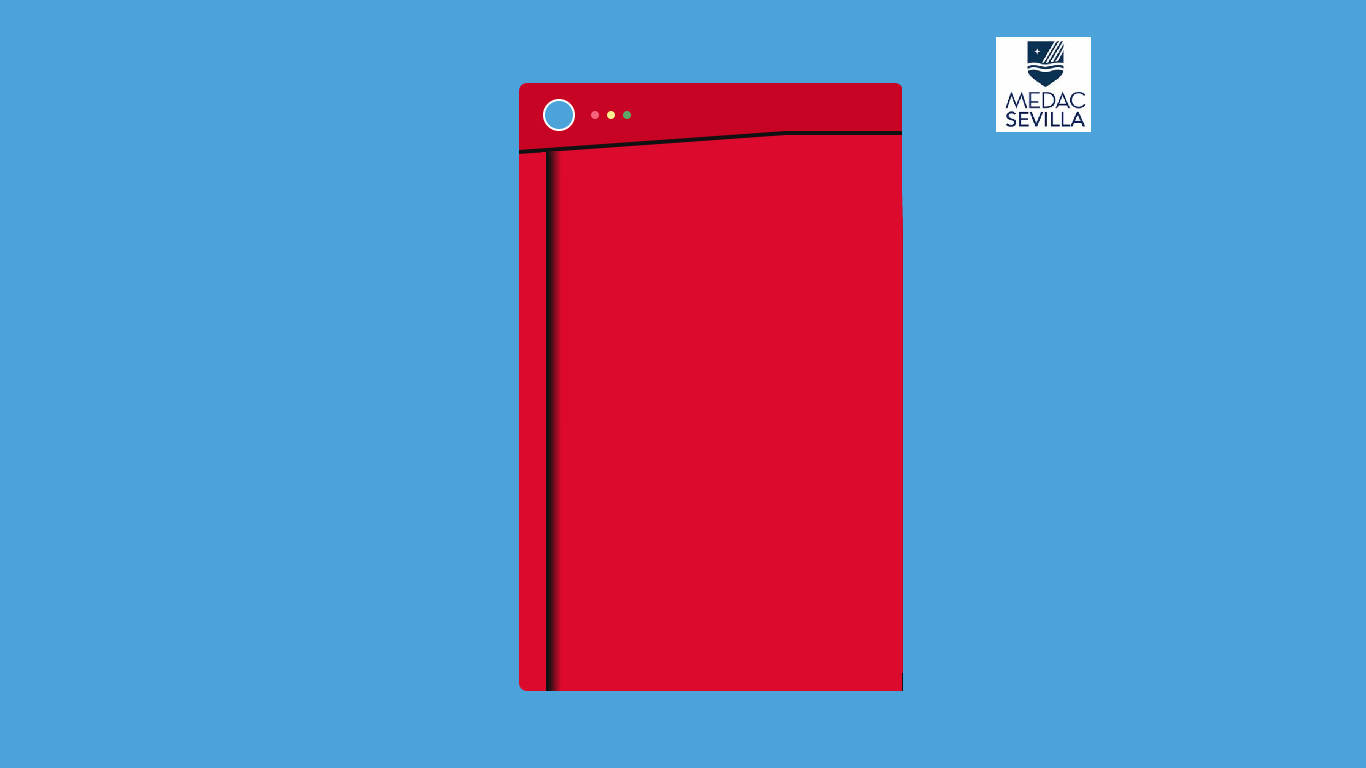
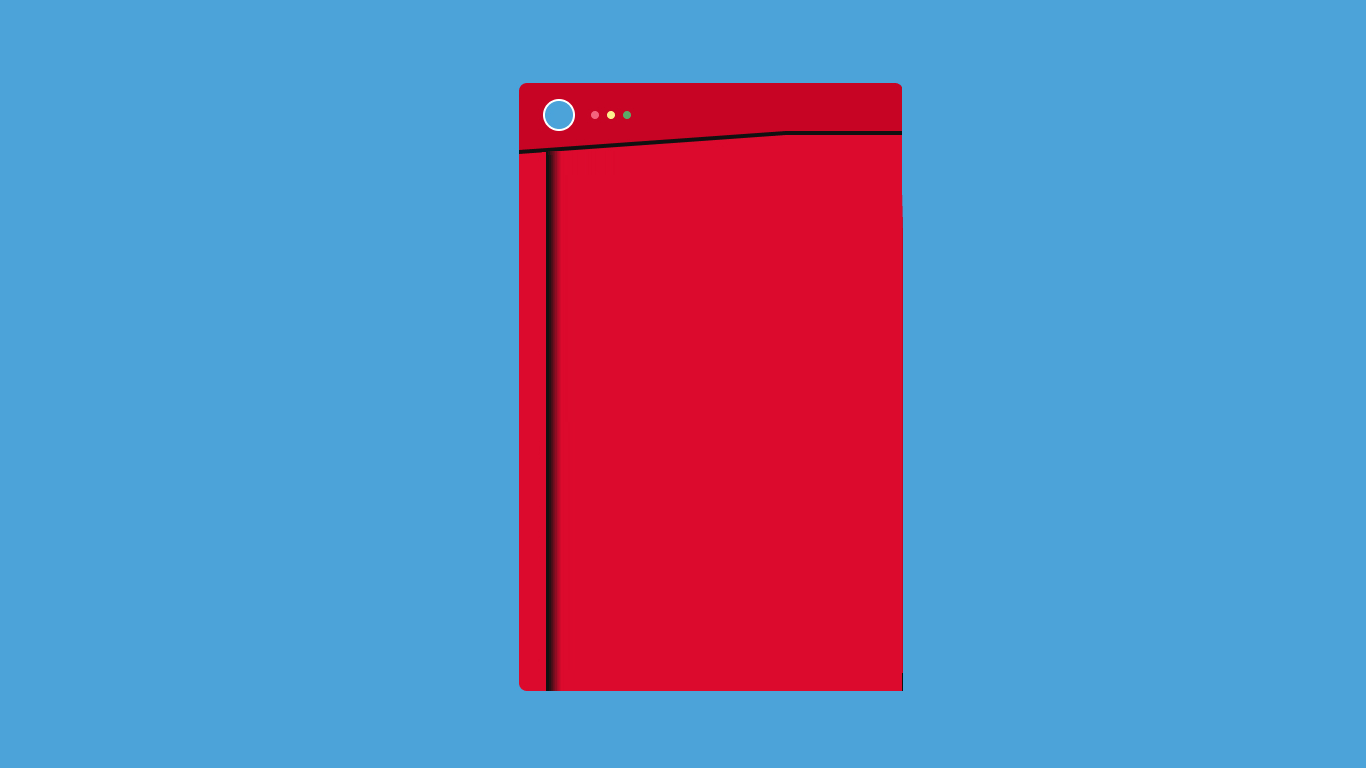
GUARDADO 4

Changed region(s): [[0.7072, 0.0312, 0.7994, 0.1875]]

diff --git a/pokemon/src/pokemon/paginaP.java b/pokemon/src/pokemon/paginaP.java
@@ -17,7 +17,7 @@ public class paginaP {
 
     public static void main(String[] args) {
         try {
-        	paginaP window = new paginaP();
+            paginaP window = new paginaP();
             window.open();
         } catch (Exception e) {
             e.printStackTrace();
@@ -25,7 +25,6 @@ public class paginaP {
     }
 
     public void open() {
-    	
         Display display = Display.getDefault();
         createContents();
         shell.open();
@@ -42,55 +41,56 @@ public class paginaP {
 
     protected void createContents() {
         shell = new Shell();
-        shell.setSize( 875, 689);
-        shell.setText("SWT Application");
+        shell.setSize(875, 689);
+        shell.setText("Pokedex");
 
         Display display = shell.getDisplay();
 
-        // 📌 Cargar imagen
-      // Image background = new Image(display, "Pokedex.jpg");
-        Image background = new Image(display, "C:\\Users\\Usuario\\Desktop\\pokemon\\pokemon\\src\\pokemon\\cerrado.png");
-        
-                // 📌 Label como fondo
-                Label fondo = new Label(shell, SWT.NONE);
-                fondo.setImage(background);
-                fondo.setBounds(-220, -53, 1366, 768);
-                
-                Label lblBienvenido = new Label(shell, SWT.NONE);
-                lblBienvenido.setBounds(435, 174, 177, 15);
-                lblBienvenido.setText("INDICA QUE POKEMON BUSCAS");
-                
-                text = new Text(shell, SWT.BORDER);
-                text.setBounds(479, 211, 172, 21);
-                
-                Button btnNewButton = new Button(shell, SWT.NONE);
-                btnNewButton.setBounds(581, 318, 75, 25);
-                btnNewButton.setText("BUSCAR");
-                
-                Label lblIndicaQuePokemon = new Label(shell, SWT.NONE);
-                lblIndicaQuePokemon.setText("Nombre:");
-                lblIndicaQuePokemon.setBounds(409, 214, 64, 15);
-                
-                Label lblIndicaQuePokemon_1 = new Label(shell, SWT.NONE);
-                lblIndicaQuePokemon_1.setText("Nombre:");
-                lblIndicaQuePokemon_1.setBounds(409, 217, 64, 15);
-                
-                Label lblNewLabel = new Label(shell, SWT.NONE);
-                lblNewLabel.setBounds(348, 241, 110, 15);
-                lblNewLabel.setText("Numero de pokedex:");
-                
-                Label lblTipo = new Label(shell, SWT.NONE);
-                lblTipo.setText("Tipo:");
-                lblTipo.setBounds(424, 268, 35, 15);
-                
-                text_1 = new Text(shell, SWT.BORDER);
-                text_1.setBounds(479, 238, 172, 21);
-                
-                text_2 = new Text(shell, SWT.BORDER);
-                text_2.setBounds(479, 265, 172, 21);
-                
-                        // (opcional) para que otros controles se vean encima
-                        fondo.moveBelow(null);
+        //  Imagen de fondo
+        Image background = new Image(display,
+                "C:\\Users\\Usuario\\Desktop\\pokemon\\pokemon\\src\\pokemon\\cerrado.png");
+
+        Label fondo = new Label(shell, SWT.NONE);
+        fondo.setImage(background);
+        fondo.setBounds(-205, -62, 1366, 768);
+
+        //  Labels 
+        Label lblBienvenido = new Label(shell, SWT.NONE);
+        lblBienvenido.setBounds(435, 174, 220, 20);
+        lblBienvenido.setText("INDICA QUE POKEMON BUSCAS");
+        lblBienvenido.setBackground(display.getSystemColor(SWT.COLOR_TRANSPARENT));
+
+        Label lblNombre = new Label(shell, SWT.NONE);
+        lblNombre.setText("Nombre:");
+        lblNombre.setBounds(409, 214, 64, 15);
+        lblNombre.setBackground(display.getSystemColor(SWT.COLOR_TRANSPARENT));
+
+        Label lblNumero = new Label(shell, SWT.NONE);
+        lblNumero.setBounds(348, 241, 130, 15);
+        lblNumero.setText("Numero de pokedex:");
+        lblNumero.setBackground(display.getSystemColor(SWT.COLOR_TRANSPARENT));
+
+        Label lblTipo = new Label(shell, SWT.NONE);
+        lblTipo.setText("Tipo:");
+        lblTipo.setBounds(424, 268, 35, 15);
+        lblTipo.setBackground(display.getSystemColor(SWT.COLOR_TRANSPARENT));
+
+        //  Text fields 
+        text = new Text(shell, SWT.BORDER);
+        text.setBounds(479, 211, 172, 21);
+
+        text_1 = new Text(shell, SWT.BORDER);
+        text_1.setBounds(479, 238, 172, 21);
+
+        text_2 = new Text(shell, SWT.BORDER);
+        text_2.setBounds(479, 265, 172, 21);
+
+        //  Botón
+        Button btnBuscar = new Button(shell, SWT.NONE);
+        btnBuscar.setBounds(581, 318, 75, 25);
+        btnBuscar.setText("BUSCAR");
+
+        // 📌 Asegurar que el fondo quede detrás
+        fondo.moveBelow(null);
     }
 }
-
